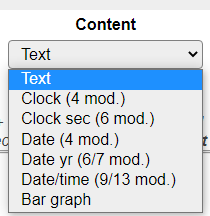
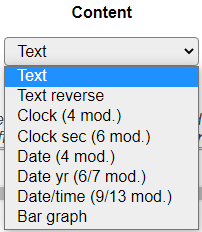
[P104] Bugfixes, add Text reverse option, update documentation

diff --git a/src/src/PluginStructs/P104_data_struct.cpp b/src/src/PluginStructs/P104_data_struct.cpp
@@ -21,6 +21,7 @@
 # if defined(P104_USE_NUMERIC_DOUBLEHEIGHT_FONT) || defined(P104_USE_FULL_DOUBLEHEIGHT_FONT)
 void createHString(String& string); // Forward definition
 # endif // if defined(P104_USE_NUMERIC_DOUBLEHEIGHT_FONT) || defined(P104_USE_FULL_DOUBLEHEIGHT_FONT)
+void reverseStr(String& str); // Forward definition
 
 /****************************************************************
  * Constructor
@@ -261,20 +262,20 @@ void P104_data_struct::configureZones() {
 
       switch (it->font) {
         case P104_DEFAULT_FONT_ID: {
-          P->setFont(nullptr); // default font
+          P->setFont(currentZone, nullptr); // default font
           break;
         }
         # ifdef P104_USE_NUMERIC_DOUBLEHEIGHT_FONT
         case P104_DOUBLE_HEIGHT_FONT_ID: {
           P->setFont(currentZone, numeric7SegDouble);
-          P->setCharSpacing(P->getCharSpacing() * 2); // double spacing as well
+          P->setCharSpacing(currentZone, P->getCharSpacing() * 2); // double spacing as well
           break;
         }
         # endif // ifdef P104_USE_NUMERIC_DOUBLEHEIGHT_FONT
         # ifdef P104_USE_FULL_DOUBLEHEIGHT_FONT
         case P104_FULL_DOUBLEHEIGHT_FONT_ID: {
           P->setFont(currentZone, BigFont);
-          P->setCharSpacing(P->getCharSpacing() * 2); // double spacing as well
+          P->setCharSpacing(currentZone, P->getCharSpacing() * 2); // double spacing as well
           break;
         }
         # endif // ifdef P104_USE_FULL_DOUBLEHEIGHT_FONT
@@ -330,7 +331,7 @@ void P104_data_struct::configureZones() {
       # endif // ifdef P104_DEBUG_DEV
 
       // Content == text && text != ""
-      if ((it->content == P104_CONTENT_TEXT) && (!it->text.isEmpty())) {
+      if ((it->content == P104_CONTENT_TEXT || it->content == P104_CONTENT_TEXT_REV) && (!it->text.isEmpty())) {
         displayOneZoneText(currentZone, *it, it->text);
       }
 
@@ -366,10 +367,14 @@ void P104_data_struct::displayOneZoneText(uint8_t                 zone,
 
   # if defined(P104_USE_NUMERIC_DOUBLEHEIGHT_FONT) || defined(P104_USE_FULL_DOUBLEHEIGHT_FONT)
 
-  if (zstruct.layout == P104_LAYOUT_DOUBLE_LOWER) {
+  if (zstruct.layout == P104_LAYOUT_DOUBLE_UPPER) {
     createHString(sZoneBuffers[zone]);
   }
   # endif // if defined(P104_USE_NUMERIC_DOUBLEHEIGHT_FONT) || defined(P104_USE_FULL_DOUBLEHEIGHT_FONT)
+
+  if (zstruct.content == P104_CONTENT_TEXT_REV) {
+    reverseStr(sZoneBuffers[zone]);
+  }
 
   String log;
 
@@ -402,7 +407,7 @@ void P104_data_struct::updateZone(uint8_t                 zone,
                                   const P104_zone_struct& zstruct) {
   if (zone == 0) {
     for (auto it = zones.begin(); it != zones.end(); ++it) {
-      if (it->content == P104_CONTENT_TEXT) {
+      if (it->content == P104_CONTENT_TEXT || it->content == P104_CONTENT_TEXT_REV) {
         displayOneZoneText(it->zone - 1, *it, sZoneInitial[it->zone - 1]); // Re-send last displayed text
         P->displayReset(it->zone - 1);
       }
@@ -412,6 +417,7 @@ void P104_data_struct::updateZone(uint8_t                 zone,
       }
       #endif
       if (zstruct.content == P104_CONTENT_TEXT
+          || zstruct.content == P104_CONTENT_TEXT_REV
       #ifdef P104_USE_BAR_GRAPH
           || zstruct.content == P104_CONTENT_BAR_GRAPH
       #endif
@@ -422,7 +428,7 @@ void P104_data_struct::updateZone(uint8_t                 zone,
       }
     }
   } else {
-    if (zstruct.content == P104_CONTENT_TEXT) {
+    if (zstruct.content == P104_CONTENT_TEXT || zstruct.content == P104_CONTENT_TEXT_REV) {
       displayOneZoneText(zstruct.zone - 1, zstruct, sZoneInitial[zstruct.zone - 1]); // Re-send last displayed text
       P->displayReset(zstruct.zone - 1);
     }
@@ -795,7 +801,7 @@ bool P104_data_struct::handlePluginWrite(taskIndex_t   taskIndex,
 
           if ((sub.equals(F("txt")) ||              // subcommand: [set]txt,<zone>,<text> (only allowed for zones with Text content)
                sub.equals(F("settxt"))) &&
-              (it->content == P104_CONTENT_TEXT)) { // no length check, so longer than the UI allows is made possible
+              (it->content == P104_CONTENT_TEXT || it->content == P104_CONTENT_TEXT_REV)) { // no length check, so longer than the UI allows is made possible
             if (sub.equals(F("settxt")) &&          // subcommand: settxt,<zone>,<text> (stores the text in the settings, is not saved)
                 string4.length() <= P104_MAX_TEXT_LENGTH_PER_ZONE) {
               it->text = string4;                   // Only if not too long, could 'blow up' the settings when saved
@@ -1144,6 +1150,14 @@ void createHString(String& string) {
 
 # endif // if defined(P104_USE_NUMERIC_DOUBLEHEIGHT_FONT) || defined(P104_USE_FULL_DOUBLEHEIGHT_FONT)
 
+void reverseStr(String& str) {
+    uint16_t n = str.length();
+ 
+    // Swap character starting from two corners
+    for (uint16_t i = 0; i < n / 2; i++)
+        std::swap(str[i], str[n - i - 1]);
+}
+
 /************************************************************************
  * execute all PLUGIN_ONE_PER_SECOND tasks
  ***********************************************************************/
@@ -1261,7 +1275,7 @@ void P104_data_struct::checkRepeatTimer(uint8_t z) {
           addLog(LOG_LEVEL_INFO, log);
         }
         # endif // ifdef P104_DEBUG
-        if (it->content == P104_CONTENT_TEXT) {
+        if (it->content == P104_CONTENT_TEXT || it->content == P104_CONTENT_TEXT_REV) {
           displayOneZoneText(it->zone - 1, *it, sZoneInitial[it->zone - 1]); // Re-send last displayed text
           P->displayReset(it->zone - 1);
         }
@@ -1888,6 +1902,7 @@ bool P104_data_struct::webform_load(struct EventStruct *event) {
 
     const __FlashStringHelper *contentTypes[] = {
       F("Text"),
+      F("Text reverse"),
       F("Clock (4 mod.)"),
       F("Clock sec (6 mod.)"),
       F("Date (4 mod.)"),
@@ -1899,6 +1914,7 @@ bool P104_data_struct::webform_load(struct EventStruct *event) {
     };
     int contentOptions[] {
       P104_CONTENT_TEXT,
+      P104_CONTENT_TEXT_REV,
       P104_CONTENT_TIME,
       P104_CONTENT_TIME_SEC,
       P104_CONTENT_DATE4,

diff --git a/src/src/PluginStructs/P104_data_struct.h b/src/src/PluginStructs/P104_data_struct.h
@@ -4,7 +4,7 @@
 #include "../../_Plugin_Helper.h"
 #ifdef USES_P104
 
-# define P104_DEBUG     // Log some extra (tech) data, also useful during development
+# define P104_DEBUG // Log some extra (tech) data, also useful during development
 // # define P104_DEBUG_DEV // Log some extra development info
 
 # include "../CustomBuild/StorageLayout.h"
@@ -17,7 +17,9 @@
 # include "src/Helpers/Misc.h"
 # include "src/Helpers/StringParser.h"
 
-// # define P104_USE_NUMERIC_DOUBLEHEIGHT_FONT                 // Enables double height numeric font for double-height time/date
+# if defined(PLUGIN_SET_MAX) || defined(PLUGIN_BUILD_CUSTOM)
+#  define P104_USE_NUMERIC_DOUBLEHEIGHT_FONT                // Enables double height numeric font for double-height time/date
+# endif // if defined(PLUGIN_SET_MAX) || defined(PLUGIN_BUILD_CUSTOM)
 # define P104_USE_FULL_DOUBLEHEIGHT_FONT                    // Enables the use of a full (lower ascii only) set double height font
 # define P104_USE_VERTICAL_FONT                             // Enables the use of a vertical font
 # define P104_USE_EXT_ASCII_FONT                            // Enables the use of an extended ascii font
@@ -199,16 +201,17 @@
 # define P104_ACTION_DELETE       3
 
 # define P104_CONTENT_TEXT        0
-# define P104_CONTENT_TIME        1
-# define P104_CONTENT_TIME_SEC    2
-# define P104_CONTENT_DATE4       3
-# define P104_CONTENT_DATE6       4
-# define P104_CONTENT_DATE_TIME   5
-# define P104_CONTENT_BAR_GRAPH   6
+# define P104_CONTENT_TEXT_REV    1
+# define P104_CONTENT_TIME        2
+# define P104_CONTENT_TIME_SEC    3
+# define P104_CONTENT_DATE4       4
+# define P104_CONTENT_DATE6       5
+# define P104_CONTENT_DATE_TIME   6
+# define P104_CONTENT_BAR_GRAPH   7
 # ifdef P104_USE_BAR_GRAPH
-#  define P104_CONTENT_count       7 // The number of content type options
+#  define P104_CONTENT_count       8 // The number of content type options
 # else // ifdef P104_USE_BAR_GRAPH
-#  define P104_CONTENT_count       6 // The number of content type options
+#  define P104_CONTENT_count       7 // The number of content type options
 # endif // ifdef P104_USE_BAR_GRAPH
 
 # define P104_SPECIAL_EFFECT_NONE       0

diff --git a/docs/source/Plugin/P104.rst b/docs/source/Plugin/P104.rst
@@ -174,6 +174,7 @@ This are the available options:
 Between round braces the expected number of modules, required to display the complete content, is added.
 
 * *Text* A plain text, or with variables (as described above) will be displayed. The number of modules isn't estimated.
+* *Text reverse* Like *Text*, but the result will be reversed before displaying it. Makes the Vertical font more usable.
 * *Clock* Shows the current time according to the **Content options** settings.
 * *Clock sec* Shows the current time, including seconds and according to the **Content options** settings.
 * *Date* Show the date in a day and month format, formatted as configured in the **Content options** settings.
